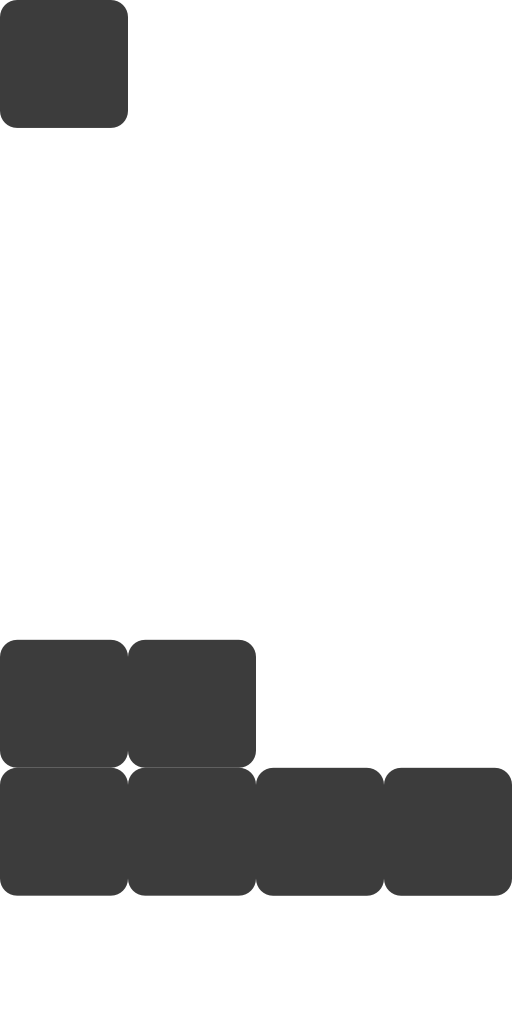
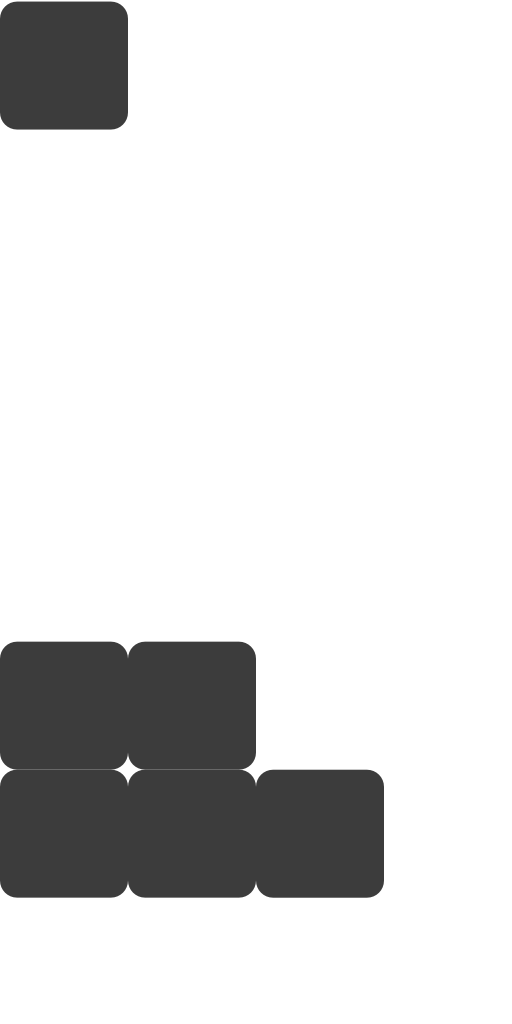
You can now safely remove the SD card from within Cura.

Changed region(s): [[0.75, 0.728, 1.0, 0.8796]]

diff --git a/Cura/gui/util/openglGui.py b/Cura/gui/util/openglGui.py
@@ -380,6 +380,7 @@ class glGuiLayoutGrid(object):
 class glButton(glGuiControl):
 	def __init__(self, parent, imageID, tooltip, pos, callback, size = None):
 		self._buttonSize = size
+		self._hidden = False
 		super(glButton, self).__init__(parent, pos)
 		self._tooltip = tooltip
 		self._parent = parent
@@ -387,7 +388,6 @@ class glButton(glGuiControl):
 		self._callback = callback
 		self._selected = False
 		self._focus = False
-		self._hidden = False
 		self._disabled = False
 		self._showExpandArrow = False
 		self._progressBar = None
@@ -415,6 +415,8 @@ class glButton(glGuiControl):
 		return self._selected
 
 	def getMinSize(self):
+		if self._hidden:
+			return 0, 0
 		if self._buttonSize is not None:
 			return self._buttonSize, self._buttonSize
 		return self._base._buttonSize, self._base._buttonSize
@@ -681,7 +683,8 @@ class glNotification(glFrame):
 		super(glNotification, self).__init__(parent, pos)
 		glGuiLayoutGrid(self)._alignBottom = False
 		self._label = glLabel(self, "Notification", (0, 0))
-		self._button = glButton(self, 30, "", (1, 0), self.onClose, 25)
+		self._buttonEject = glButton(self, 31, "Eject", (1, 0), self.onEject, 25)
+		self._button = glButton(self, 30, "", (2, 0), self.onClose, 25)
 		self._padding = glLabel(self, "", (0, 1))
 		self.setHidden(True)
 
@@ -698,14 +701,20 @@ class glNotification(glFrame):
 		self.updateLayout()
 		super(glNotification, self).draw()
 
-	def message(self, text):
+	def message(self, text, ejectCallback = None):
 		if self._anim is not None:
 			self._anim = animation(self._base, self._anim.getPosition(), 25, 1)
 		else:
 			self._anim = animation(self._base, -20, 25, 1)
 		self.setHidden(False)
 		self._label.setLabel(text)
+		self._buttonEject.setHidden(ejectCallback is None)
+		self._ejectCallback = ejectCallback
 		self.updateLayout()
+
+	def onEject(self, button):
+		self.onClose(button)
+		self._ejectCallback()
 
 	def onClose(self, button):
 		if self._anim is not None:

diff --git a/Cura/gui/sceneView.py b/Cura/gui/sceneView.py
@@ -160,7 +160,7 @@ class SceneView(openglGui.glGuiPanel):
 				except:
 					self.notification.message("Failed to save to SD card")
 				else:
-					self.notification.message("Saved as %s" % (drive[1] + filename))
+					self.notification.message("Saved as %s" % (drive[1] + filename), lambda : self.notification.message('You can now eject the card.') if removableStorage.ejectDrive(drive[1]) else self.notification.message('Safe remove failed...'))
 			else:
 				self.showSaveGCode()
 		if button == 3:
